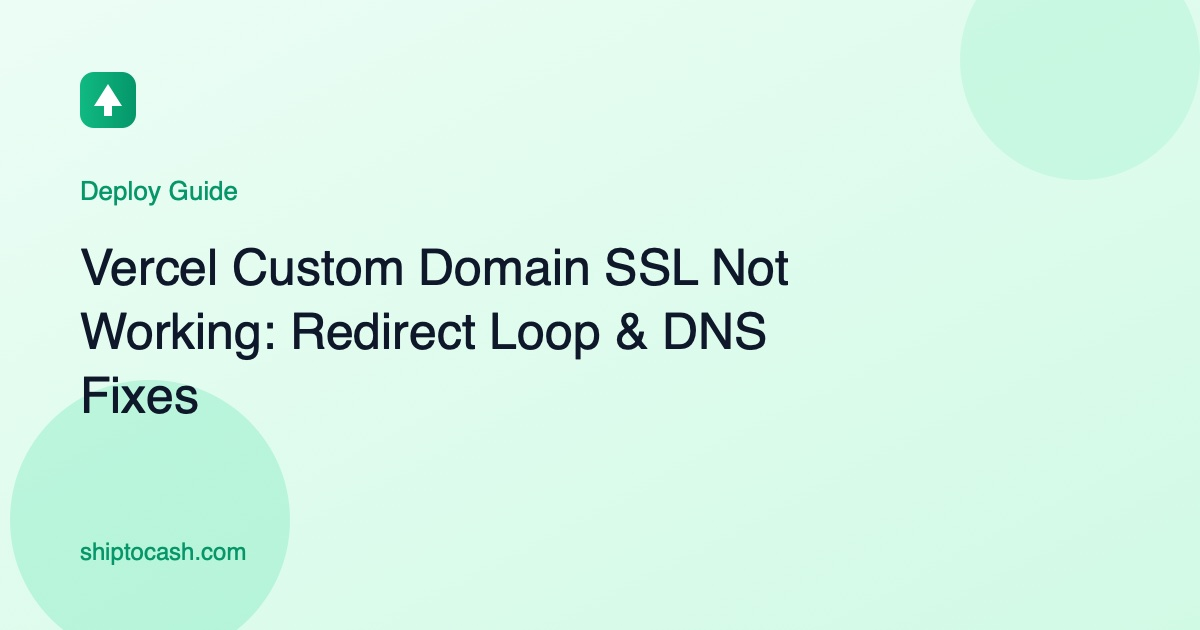
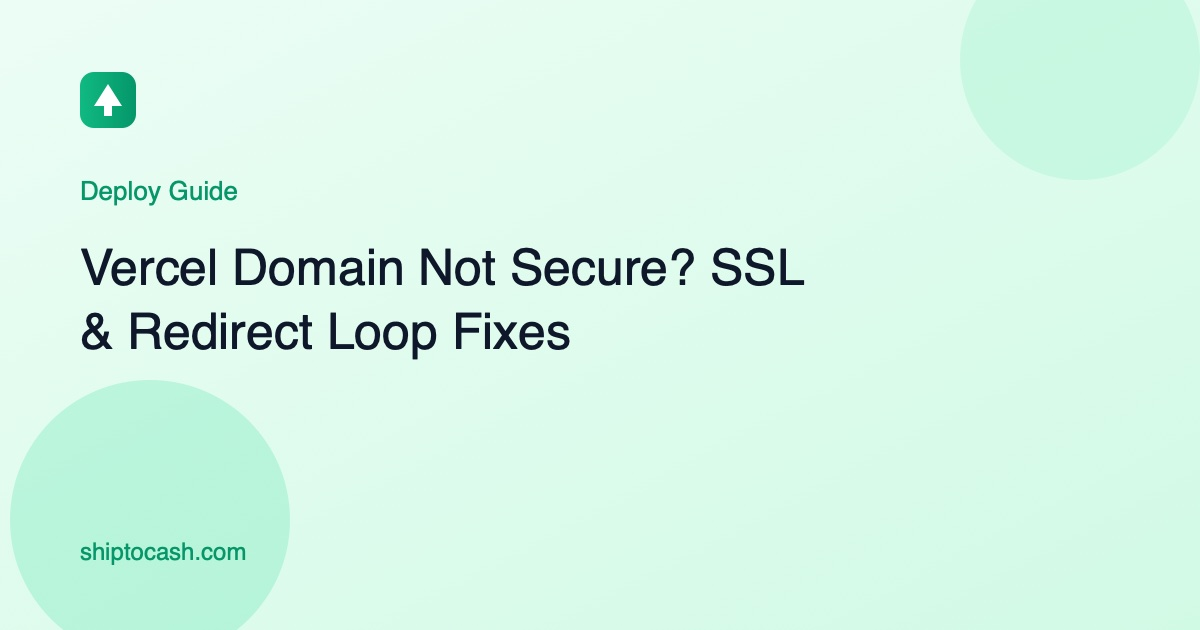
seo: retarget two low-CTR Vercel pages at error-log queries, fix contradictory CNAME guidance
- vercel-build-failed: title/desc matched to pasted error strings, 5-row lookup
  table expanded to 10 exact log lines, 1685 -> 1798 words
- vercel-custom-domain-ssl-not-working: title 63 -> 51 chars, description
  236 -> 155 chars, adds cert-error-code section, 1344 -> 1596 words
- vercel-custom-domain-setup: title 62 -> 58 chars, cross-cluster outbound
  link added; stays online as topic landing page, no further ranking push
- fix factual conflict: project-specific CNAME (xxxx.vercel-dns-017.com)
  is the verified value; cname.vercel-dns.com demoted to legacy in both pages
- regenerate OG images for all three pages
- add docs/traffic-breakout-plan.md (GSC 3-month diagnosis)

Changed region(s): [[0.0617, 0.4825, 0.6475, 0.6635], [0.185, 0.3921, 0.6783, 0.4524]]

diff --git a/docs/traffic-breakout-plan.md b/docs/traffic-breakout-plan.md
@@ -1,0 +1,194 @@
+# 破局方案：Google 曝光起不来（2026-10-21 诊断）
+
+> 现象：唯一流量来源是 Google，曝光每天个位数，进站 0–2 人/天。
+> **先纠正一个误判：你不是"没有排名"。你已经有页面排到第 1 页了。**
+
+---
+
+## 0. 数据说话：你其实已经排上去了
+
+2026-10-21 GSC 截图（近 28 天）：
+
+| 页面 | 展示 | 点击 | CTR | 平均排名 |
+|---|---|---|---|---|
+| `payments/getting-paid-without-stripe-kofi-paypal` | 332 | 4 | **1.2%** | **8.9** |
+| `payments/stripe-not-available-in-my-country` | 99 | 3 | 3.0% | 20.7 |
+
+**平均排名 8.9 = 第 1 页第 9 位。** 这不是"被 Google 埋没"，是"排上去了但没人点"。
+
+而且注意这两篇的分类：**都是 payments**。deploy 簇有 16 篇，一篇都没进点击榜。
+
+这一条信息比什么都值钱 —— 它说明 **Google 已经认了你在「收款/支付」这个主题上的相关性，还没认 deploy**。这直接决定了后面该往哪儿投。
+
+---
+
+## 1. 三个真问题（按影响大小排序）
+
+### 1.1 词的量级太小 —— 排第 1 也没几个人（最大问题）
+
+832 次展示 ÷ 28 天 ≈ **每天 30 次曝光，全站**。
+
+反过来推：`getting-paid-without-stripe` 28 天 332 次展示，说明它的目标词月搜索量大概在**几百量级**。这种词就算你排到第 1 位，一个月也最多 30–50 次点击。
+
+> 你现在陷入了「极长尾陷阱」：竞争确实低，但池子太小。为了躲开大站，把词一路退到没人搜的地方，等于赢了一场没有奖品的比赛。
+
+**必须往上走一层**：从「月搜 200–500、KD 极低」→「月搜 1000–3000、前 5 有 DR 20–40 的站」。后者才是既有量又能赢的区间。
+
+### 1.2 CTR 1.2% —— 排在第 9 位，正常该有 6–8%
+
+这是**最容易修、见效最快**的一项，而且不需要写任何新内容。
+
+同一条数学：
+
+| 情形 | 展示 | CTR | 点击 |
+|---|---|---|---|
+| 现在（排名 8.9） | 332 | 1.2% | **4** |
+| 标题摘要修好（排名不变） | 332 | 6% | **20** |
+| 内容加深 + 内链推到 4–5 位 | 600+ | 8% | **48** |
+
+**不动排名，只改标题，这一篇就能从 4 个点击变成 20 个 —— 相当于你现在的全部流量翻 5 倍。**
+
+为什么 CTR 只有 1.2%？两个原因：
+1. **标题不像"人会点"的东西**。`Getting Paid Without Stripe: My Ko-fi + PayPal Setup` —— 这是"记录我做了什么"，不是"解决你的问题"。搜这个词的人想知道"我该怎么办"，标题要冲着他喊。
+2. **展示分散在大量长尾词上**。平均排名 8.9 是被少数几个好位次拉高的，大部分展示可能来自排 30+ 的词（那些词几乎不会被点）。所以真实情况是：**你在少数词上排第 8，在多数词上排第 30**。
+
+### 1.3 大部分页面 0 排名 + 全站 0 外链
+
+deploy 簇 16 篇没进点击榜，原因在 §3。
+
+---
+
+## 2. 双轨策略：先摘低垂果实，再换战场
+
+两条轨并行，但**优先级完全不同**：
+
+### Track A（本周开始，2–4 周见效）—— 把已经排上来的页面推到前 5
+
+这是全站 ROI 最高的动作，因为你已经有排名基础，不用等 Google 重新建立信任。
+
+**具体做法（按这 8 篇逐个过）：**
+
+1. **导出 GSC 里有点击的全部页面**（估计 8 篇左右），按展示排序。
+2. 对每篇做三件事：
+   - **改标题**：从"我做了什么"改成"你该怎么办 + 具体结果"。
+     - ❌ `Getting Paid Without Stripe: My Ko-fi + PayPal Setup`
+     - ✅ `No Stripe? Get Paid in 48 Hours With Ko-fi + PayPal`
+   - **改 description**：必须包含一个具体数字或结果（费率、到账时间、门槛）。这是 SERP 里唯一能制造"点我"冲动的元素。
+   - **内容加深 30%**：补上真正只有你能写的东西 —— 实际费率和到账天数截图、被拒的经过、审核等了几天。然后更新 `dateModified`。
+3. **给这 8 篇加 3–4 条站内入链**（从相关老文链过来），把权重集中过去。
+
+> 判断标准：4 周后这 8 篇的平均排名有没有从 9–20 进到 5 以内。进了，说明这条路成立，可以继续复制。
+
+### Track B（本周开始，60–90 天见效）—— 换战场到 payments / Lemon Squeezy
+
+**deploy 簇封盘，不再新增。** 理由是数据已经给了答案：payments 在排名，deploy 不在。继续往 deploy 投入等于每次从零开始建立信任；而往 payments 投入，Google 已有的相关性判断会直接传递过去。
+
+**为什么是 Lemon Squeezy**（2026-10-21 实测）：
+
+| 关键词 | SERP 前 5 实际构成 | 能赢吗 |
+|---|---|---|
+| `vercel build failed` | Stack Overflow（DR 92，**同一帖 20+ 条答案覆盖全部原因**）+ Vercel 官方文档 ×2 + pSEO 报错库站 | ❌ |
+| `cors error vercel` | Vercel 官方 KB ×3（同内容三镜像）+ 社区帖 | ❌ |
+| `lemon squeezy webhook not firing` | devtonicstudios（DR ~15）、portpreview（DR ~10）、refgrow docs、**SO 只有 1 条答案** | ✅ |
+
+而且 LS 读者在**实施阶段**（正在接支付），affiliate 转化率天然高于"来查报错、修完就走"的人。
+
+**待写 8 篇（全部避开税务/法务，遵守现有 E-E-A-T 否决项）**
+
+| # | 目标关键词 | 为什么能赢 |
+|---|---|---|
+| 1 | `lemon squeezy license key activation limit exceeded` | 官方只写字段不解释业务逻辑 |
+| 2 | `lemon squeezy webhook retry idempotency` | 仅 portpreview 一篇擦边，可碾压 |
+| 3 | `lemon squeezy store approval rejected` | Reddit 大量真实抱怨，官方无解释页 |
+| 4 | `lemon squeezy pause subscription api` | API 文档有端点无场景 |
+| 5 | `lemon squeezy discount code checkout link` | 纯操作教程，官方文档碎片化 |
+| 6 | `lemon squeezy api rate limit 429` | 报错型但受众是开发者，答案稀缺 |
+| 7 | `migrate from gumroad to lemon squeezy` | 写迁移步骤，不是评测对比 |
+| 8 | `lemon squeezy license validation supabase` | 栈组合词，几乎无竞争 |
+
+---
+
+## 3. 为什么 deploy 那 16 篇打不动 —— 判据需要改
+
+`content-strategy-no-comparison.md` §2 的核心判据是：
+
+> ≥2 条 UGC（Reddit / Stack Overflow / GitHub Discussions）→ **可打**
+
+这条判据的推理链断了。**UGC 出现在前 5，说明的是"意图已经在 SERP 内被满足"，不是机会，是警告。**
+
+- 用户搜 `vercel build failed` 的真实需求是「30 秒内给我一个能试的修复」。那条 SO 帖子已经把 npm / Node 版本 / 缓存 / peer-deps / monorepo / 环境变量全部原因列完了 —— Google 判定意图已满足，没有任何理由推第 12 个答案上去。
+- 更致命：**点击不需要**。用户在摘要里扫一眼就有答案，压根不点。
+
+> 你 9 月 4 日那次实测（`404 on refresh vercel`）其实已经看到真相：排上来的是 **jsschools.com 这类小站**。真正说明"可打"的信号是「**有低 DR 站排进前 5**」，当时把功劳记在了 UGC 头上。
+
+### 修正后的判据（替换原 §2 表格）
+
+| 判据 | 加分（可打） | 减分（放弃） |
+|---|---|---|
+| 前 5 是否已有 **DR < 40** 的站 | ✅ +3 —— 最强的可赢信号 | ❌ −3 全是 DR 60+ |
+| 是否存在**单一答案页通吃**全部原因 | ✅ 答案分散在多个来源 | ❌ 一条 SO 帖/一页官方文档全覆盖 |
+| 查询是否需要**多步骤执行** | ✅ +2 | ❌ −2 一句话答完 |
+| 是否有**商业/实施意图** | ✅ +2 读者正在花钱或配置 | ❌ −2 纯排错、修完就走 |
+| **词量级是否 ≥ 1000/月** | ✅ +2 | ❌ −2 月搜几百，排第 1 也没量 |
+
+**≥5 分才写，≤2 分换词。** 用这个标准回测，deploy 簇的报错文大多在 0 分上下 —— 它们从出生就不该被写。
+
+---
+
+## 4. 拿链接 —— 你从来没做过的那件事
+
+11 周 0 外链建设 = 排名天花板极低。目标：60 天做到 15–20 个引荐域名。
+
+按性价比排：
+
+1. **dev.to 同步 3 篇**（最高性价比）。选 LS webhook / checkout / license 三篇，改写成 dev.to 风格，**canonical 指回 shiptocash.com**。dev.to DA 90，带爬虫 + 带品牌搜索 + 带真实点击。今天就能做。
+2. **Reddit 真实回答 5 条**。r/webdev、r/SideProject、r/SaaS 搜 `lemon squeezy`，回答里把**完整解法写出来**，最后附「详细版在这里」。硬贴链接会被删号。
+3. **GitHub 侧链**：给 `awesome-astro` / `awesome-vercel` 提 PR；把自己的 guides 挂到个人 repo README（GitHub 是 DR 100 dofollow 域）。
+4. **做 1 个免费计算器**：Lemon Squeezy / Paddle / Stripe 手续费对比计算器（纯工具，不是评测文，不违反禁对比文规则）。工具页是最容易自然吸链接的资产。
+5. **同层级互引**：找 5 个 DR 10–30 的同类小站，读完写一篇更深的，邮件告知 + 请求互引。
+
+> ⚠ 不买链接、不进链接农场、不做 PBN。新站被识别一次就废。
+
+---
+
+## 5. 30 / 60 / 90 天动作表
+
+| 阶段 | 动作 | 量化目标 |
+|---|---|---|
+| **第 1 周** | 导出有点击的 8 篇 → 改标题 + 改 description；dev.to 发第 1 篇；定 3 个 pillar 骨架 | CTR 先动 |
+| **第 2–4 周** | 8 篇内容各加深 30% + 更新 dateModified + 补 3–4 条入链；写 LS #1–#3 | 8 篇平均排名 → 5 以内；日曝光 30 → 100 |
+| **第 5–8 周** | 写 LS #4–#6；上线手续费计算器；GitHub PR ×3；Reddit 回答 5 条 | 引荐域名 12+ |
+| **第 9–12 周** | 写 LS #7–#8；按新判据回测全部旧文，砍掉 0 分页或合并；评估 deploy 是否解封 | 非品牌点击 > 10/天 |
+
+**结构同步做**：建 3 个 pillar 页（payments / deploy / monetize 各一），子页首段链向 pillar，pillar 用表格串起全部子页。平铺结构会把权重摊薄，谁都进不了前 5。
+
+---
+
+## 6. 判定信号与止损线
+
+| 时间点 | 健康信号 | 不达标说明什么 | 怎么改 |
+|---|---|---|---|
+| 14 天 | 改标题的那 8 篇 CTR 从 1.2% → 4%+ | 标题仍不对 | 看 GSC 实际展示的查询，标题里必须出现那个词 |
+| 30 天 | 日曝光 30 → 100+ | 词量级仍太小 | 往上换一层词，不要往下退 |
+| 60 天 | 出现 ≥5 个 position < 6 的词 | 内链/加深没生效 | 检查 pillar 是否被收录并被链 |
+| 90 天 | 非品牌点击 > 10/天 | 链接没做够（最常见） | 加码 §4，不是加码写文 |
+| 180 天 | 非品牌点击 100+/天 | 词族仍选错 | 整簇放弃，换赛道 |
+
+**止损铁律：90 天后还是 0–2 人/天，不要再写第 31 篇。** 问题一定在链接或词族。
+
+---
+
+## 7. 诚实的时间预期
+
+| 现在 | 1 个月 | 3 个月 | 6 个月 |
+|---|---|---|---|
+| 0–2 /天 | 3–8 /天（靠 CTR 修复） | 20–50 /天 | 100–200 /天 |
+
+**第一个月的增长几乎全靠 §1.2 的 CTR 修复**（不写新文也能拿到），这是唯一能在 30 天内看到曲线的动作。
+
+---
+
+## 8. 顺手要修的两个小事
+
+1. **GA4 没配**（`src/config/site.ts` 里 `ga4Id` 为空）。你现在只能看到 Google 给了多少曝光，看不到进来的人停了几秒、去了哪页。装 GA4 或用 Cloudflare Web Analytics（免费、无 cookie）。
+2. **`dateModified` = `datePublished`**（30 篇全部）。挑真正加深过内容的 5 篇更新 `dateModified` 是正确信号；只改日期不改内容是作弊，别做。

diff --git a/src/content/blog/vercel-build-failed.md b/src/content/blog/vercel-build-failed.md
@@ -1,7 +1,8 @@
 ---
-title: "Vercel Build Failed: 5 Real Causes and Exact Fixes"
-description: "Build works locally but Vercel says 'Build failed'? The 5 causes behind almost every red deployment — with the exact error text and fixes, from real build logs."
+title: "Vercel Build Failed? 5 Causes Matched to Your Error Log"
+description: "Log stuck on 'exited with 1'? Match the first red line to one of 5 causes — each with the exact fix, pulled from my own failed build logs."
 pubDate: 2026-08-19
+updatedDate: 2026-10-21
 category: deploy
 difficulty: beginner
 author: "Peng Zhou"
@@ -21,15 +22,9 @@ faq:
 
 The first time I saw a red "Error" status on a Vercel deployment, I stared at the log for twenty minutes. The app built fine on my laptop. It built fine five minutes earlier. What changed?
 
-That was my first deploy, and the lesson I learned — the one this guide is built on — is that Vercel build failures are almost never mysterious. Your laptop quietly forgives things that Vercel's Linux build container does not. Once you know the five things it's strict about, you can read any failed build log and usually know the fix within a minute.
+That was my first deploy. The lesson: Vercel build failures are rarely mysterious — your laptop quietly forgives things Vercel's Linux build container doesn't. Once you know the five things it's strict about, you can usually name the fix within a minute.
 
-One thing before we start: if your error literally says `Module not found`, that's usually a file-casing problem, and it has its own guide — [why Module not found happens on Vercel but not locally](/deploy/vercel-module-not-found-works-locally/). For everything else, read on.
-
-One more distinction worth making up front: if your homepage and other pages load fine but a **deep link 404s the instant you refresh it**, that is *not* a build failure — it's a client-side routing problem. Here's [how to fix 404s on refresh for Vercel, Netlify, and Cloudflare Pages](/deploy/client-side-routing-404-vercel-netlify-cloudflare/).
-
-The most basic version of "not a build failure": you push to GitHub and Vercel shows **no new deployment at all** — not a failed one, nothing. The trigger never fired, so there is no log to read. That's [why a git push stops triggering a Vercel deploy](/deploy/vercel-git-push-not-triggering-deploy/), and it's usually a commit author or Git connection problem rather than anything in your code.
-
-And if you're not on Vercel at all: Netlify reports build failures with its own string, `build script returned non-zero exit code: 2`, and the causes behind it are different enough that I wrote [a separate guide for the Netlify exit code 2 error](/deploy/netlify-build-failed-exit-code-2/).
+Three failures look like build failures but aren't, and each has its own fix. `Module not found` is usually file casing — [why Vercel says Module not found when your laptop doesn't](/deploy/vercel-module-not-found-works-locally/). Pages that render fine but [404 the moment you refresh a deep link](/deploy/client-side-routing-404-vercel-netlify-cloudflare/) are a routing problem. And when Vercel shows no new deployment at all, the trigger never fired — [Vercel never even started a deployment](/deploy/vercel-git-push-not-triggering-deploy/), so there's no log to read. Off Vercel entirely? Netlify's `build script returned non-zero exit code: 2` is [its own flavor of this error](/deploy/netlify-build-failed-exit-code-2/).
 
 ## First: read the log the right way
 
@@ -41,15 +36,22 @@ The mistake everyone makes (me included, for those twenty minutes) is reading th
 
 Now, the five causes.
 
-Here's the quick map — match your log's first red line to the cause, then scroll to it:
+Here's the lookup table I wish I'd had. Find your exact string, read the cause, then jump to the section — most of these resolve in a minute once you know which of the five you're in.
 
-| Your log shows… | The cause | Which one |
+| Exact string in your log | What it actually means | Jump to |
 |---|---|---|
-| `ERESOLVE` / `command not found` | Dependencies differ from local | Cause 1 |
-| Node syntax error / cryptic crash | Node version mismatch | Cause 2 |
-| `Type error:` / `Cannot find module` | TypeScript error surfaces at build | Cause 3 |
-| `No Output Directory` / 404 after build | Wrong build command or output | Cause 4 |
-| `heap out of memory` / build times out | Out of time or memory | Cause 5 |
+| `Command "npm run build" exited with 1` | The wrapper, not the error. The real one is 10–20 lines above it | Cause 1–3, scroll up |
+| `npm ERR! code ERESOLVE` | Two packages want incompatible peer versions | Cause 1 |
+| `Error: Command "npm install" exited with 1` | Install died before your build ever started | Cause 1 |
+| `ELIFECYCLE Command failed with exit code 1` | Your own build script threw — read the first error above it | Cause 3 |
+| `ERR_PNPM_OUTDATED_LOCKFILE` | `package.json` and `pnpm-lock.yaml` disagree | Cause 1 |
+| `SyntaxError: Unexpected token` inside a dependency | Build image's Node is older than that package expects | Cause 2 |
+| `Type error:` / `error TS2307` | Type check ran at build; dev mode skips it | Cause 3 |
+| `No Output Directory named "dist" found` | Build succeeded, output landed somewhere else | Cause 4 |
+| `Module not found: Can't resolve` | File casing, or a dependency missing from `package.json` | Cause 1 |
+| `heap out of memory` / `Build exceeded maximum allowed runtime` | Hit the memory wall or the 45-minute cap | Cause 5 |
+
+Two of those strings actively lie to you. `exited with 1` and `ELIFECYCLE` are both generic wrappers that npm prints after *something* failed — neither tells you what failed, and both are the last line of the log rather than the first. If the section under them is only cleanup noise, scroll up.
 
 ## 1. Dependencies install fine locally but break on Vercel
 
@@ -128,7 +130,8 @@ Type error: Cannot find module '@/components/Logo' or its corresponding type dec
 **What the log says:**
 
 ```
-Error: No Output Directory named "dist" found using the Vercel Speed API.
+Error: No Output Directory named "dist" found after the Build completed.
+Error: No Output Directory named "public" found after the Build completed.
 ```
 
 Or your build "succeeds" in the log but the deployment still 404s.
@@ -166,7 +169,7 @@ NODE_OPTIONS=--max_old_space_size=4096 next build
 
 For timeouts, look at what the log says the build is *doing* when it stalls. Ninety percent of the time it's not one slow step — it's a loop generating an unreasonable number of pages, or a build script that's quietly waiting on a network request that never completes. If you're on Next.js with a large static site, incremental static regeneration lets you pre-render a subset at build time and generate the rest on demand.
 
-One rate-limit gotcha while you're iterating on builds: the Hobby plan allows 100 deployments per day and 100 per hour. If you're pipelining fixes with an AI tool, you can hit that wall without noticing — the symptom is builds that won't start, which looks a lot like a build failure but isn't one.
+One rate-limit gotcha while you're iterating on builds: the Hobby plan caps you at 100 deployments per day. If you're pipelining fixes with an AI tool, you can hit that wall without noticing — the symptom is builds that won't start, which looks like a build failure but isn't.
 
 ## A 60-second pre-flight check that prevents most of this
 
@@ -182,3 +185,5 @@ If both pass locally, your odds of a green first deployment go way up. It's the 
 ## Next steps
 
 Fix the build, and you're back to the fun part: the thing actually being online. If red deployments are becoming a pattern and your project is mostly static, it's worth knowing that [Cloudflare Pages and Vercel trade blows differently](/deploy/vercel-vs-netlify-vs-cloudflare-pages/) — I run projects on both, and build behavior is one of the places they genuinely differ. And once the deploy is green, the next milestone is a custom domain — here's [how to point a domain at Vercel](/deploy/vercel-custom-domain-setup/) when you're ready, or [whether transferring the domain is even worth it](/deploy/transfer-domain-to-vercel/).
+
+And when the deploy has stayed green for a week, the next wall stops being technical. Usually the reason you wanted this thing deployed is to charge for it, and that turns out to be [taking money without a Stripe account](/payments/getting-paid-without-stripe-kofi-paypal/) — fees, payouts, and the parts nobody explains up front.

diff --git a/src/content/blog/vercel-custom-domain-ssl-not-working.md b/src/content/blog/vercel-custom-domain-ssl-not-working.md
@@ -1,8 +1,8 @@
 ---
-title: "Vercel Custom Domain SSL Not Working: Redirect Loop & DNS Fixes"
-description: "Your Vercel domain shows 'not secure', throws a redirect loop, or stays pending? Here are the exact fixes for SSL cert errors, too-many-redirects, and DNS that won't propagate — including the Cloudflare setting that causes most of them."
+title: "Vercel Domain Not Secure? SSL & Redirect Loop Fixes"
+description: "Vercel domain 'not secure', looping on redirects, or stuck pending? Four fixes in the order I check them — the Cloudflare SSL mode is guilty 9 times in 10."
 pubDate: 2026-08-28
-updatedDate: 2026-08-28
+updatedDate: 2026-10-21
 category: deploy
 difficulty: intermediate
 author: "Peng Zhou"
@@ -50,14 +50,25 @@ Vercel requests the SSL certificate *from the certificate authority* only after 
 
 Vercel shows the exact records it wants at the bottom of that Domains panel. As of 2026 they are:
 
-- **Apex (yourdomain.com):** an `A` record pointing to `76.76.21.21`
-- **www:** a `CNAME` record pointing to `cname.vercel-dns.com`
+- **Apex (yourdomain.com):** an `A` record — `76.76.21.21` on most projects
+- **www:** a `CNAME` record whose value is **unique to your project**, something like `d1d4fc829fe7bc7c.vercel-dns-017.com`
 
-I once typed `your-app.vercel.app` into the CNAME instead of `cname.vercel-dns.com` because it "looked more correct." It isn't — use the `cname.vercel-dns.com` value Vercel prints, exactly.
+Two things worth internalising here. First, Vercel has been expanding its address pool, so newer projects sometimes get a different apex IP — treat both values as "whatever my dashboard prints", not constants. Second, older tutorials tell you to use `cname.vercel-dns.com` for the CNAME. That's the legacy shared target and it still resolves, but Vercel now verifies against the per-project value it shows you.
+
+I once typed `your-app.vercel.app` into the CNAME instead of the value Vercel printed, because it "looked more correct." It isn't — copy the dashboard's value character for character. If A records and CNAMEs are still opaque to you, [the DNS records explained from scratch](/deploy/buy-domain-set-up-dns/) covers what each one is actually doing before you paste anything else.
 
 ### Step 3: Wait for propagation (or verify it)
 
 DNS changes can take minutes to a few hours depending on the registrar's TTL. Check whether the world can see your records at [whatsmydns.net](https://whatsmydns.net) — enter your domain, pick `A` or `CNAME`, and watch the map turn green. Only when records show Vercel's values globally will the cert issue.
+
+### If the browser shows a different certificate error code
+
+`NET::ERR_CERT_AUTHORITY_INVALID` is the usual one when no certificate exists yet. Two others look like the same problem but aren't:
+
+- **`ERR_CERT_COMMON_NAME_INVALID`** — a certificate *was* issued, but for a different hostname. Almost always the `www` versus apex split: you added `www` but visit the apex, or the reverse. Both hostnames need to be in **Settings → Domains**, not just one.
+- **`ERR_SSL_PROTOCOL_ERROR` or "This site can't provide a secure connection"** — the TLS handshake itself failed, which means something is sitting in front of Vercel. Usually Cloudflare's orange cloud on a record that doesn't point at Vercel, or a corporate network doing TLS inspection. Test on a phone over cellular data before you touch any DNS.
+
+If **Settings → Domains** says *"Domain does not resolve to the Vercel deployment"*, that's Vercel's own wording for "the A or CNAME records still point elsewhere." Go back to Step 2 — don't remove and re-add the domain, it only resets the clock.
 
 <a id="redirect-loop"></a>
 ## Redirect loop: ERR_TOO_MANY_REDIRECTS
@@ -97,7 +108,7 @@ The domain never leaves "Pending." This is purely a DNS problem — Vercel can't
 
 ### Step 1: Verify the CNAME value
 
-If you added a `www` CNAME, the value must be exactly `cname.vercel-dns.com` — **not** your project's `.vercel.app` URL. This is the single most common typo.
+If you added a `www` CNAME, the value must match the one in your project's **Settings → Domains** card, character for character — **not** your project's `.vercel.app` URL, and not the `cname.vercel-dns.com` value from an older tutorial. This is the single most common typo.
 
 ### Step 2: Verify the apex A record
 
@@ -131,4 +142,6 @@ On Pro and above you can upload a custom certificate, but for a personal or indi
 
 ## Next steps
 
-Most of these errors trace back to one root cause: DNS not quite pointing at Vercel, or Cloudflare sitting in the middle with the wrong SSL mode. Walk the [custom domain setup guide](/deploy/vercel-custom-domain-setup/) end to end if you set the records up from memory — it has the exact Namecheap and Cloudflare values side by side. If you bought the domain somewhere else and are wondering whether to move it, you don't have to: [pointing DNS is enough](/deploy/transfer-domain-to-vercel/), and transferring can actually reset your records and bring all this back. And no, none of this means you need to [buy an SSL certificate](/deploy/do-i-need-to-buy-ssl-certificate/) — Vercel's is free and automatic.
+Most of these errors trace back to one root cause: DNS not quite pointing at Vercel, or Cloudflare sitting in the middle with the wrong SSL mode. If you set the records up from memory, walk it end to end with [the exact Namecheap and Cloudflare values side by side](/deploy/vercel-custom-domain-setup/). If you bought the domain somewhere else and are wondering whether to move it, you don't have to: [pointing DNS is enough](/deploy/transfer-domain-to-vercel/), and transferring can actually reset your records and bring all this back. And no, none of this means you need to [buy an SSL certificate](/deploy/do-i-need-to-buy-ssl-certificate/) — Vercel's is free and automatic.
+
+One consequence worth knowing if you plan to make money from the site: a padlock that still throws a warning gets judged as a navigation problem long after you've stopped thinking about it. That's one of the reasons [AdSense reads an insecure domain as a broken site](/monetize/adsense-low-value-content-rejected/) and rejects it during review — fix the cert before you submit, not after.

diff --git a/src/content/blog/vercel-custom-domain-setup.md b/src/content/blog/vercel-custom-domain-setup.md
@@ -1,8 +1,8 @@
 ---
-title: "How to Set Up a Vercel Custom Domain (Namecheap & Cloudflare)"
+title: "Vercel Custom Domain Setup: Namecheap & Cloudflare Records"
 description: "Vercel custom domain setup for Namecheap & Cloudflare: the exact DNS records (A + CNAME), auto SSL, www vs apex, and the mistakes that break verification."
 pubDate: 2026-08-06
-updatedDate: 2026-08-10
+updatedDate: 2026-10-21
 category: deploy
 difficulty: beginner
 author: "Peng Zhou"
@@ -56,6 +56,8 @@ Vercel now shows you the DNS records it expects:
 - For `www`: a **CNAME record** — and here's what trips people up — the value is **unique to your project**, something like `d1d4fc829fe7bc7c.vercel-dns-017.com`
 
 Older tutorials tell you to use `cname.vercel-dns.com`. That's outdated. Copy the exact CNAME value your dashboard shows, character for character.
+
+Newer projects sometimes get a different apex IP as well — Vercel has been expanding its address pool — so treat both values as "whatever my dashboard prints", not as constants you can memorise.
 
 Leave this tab open. You'll come back to check verification.
 
@@ -127,3 +129,5 @@ In **Settings → Domains**, Vercel lets you set a redirect from one to the othe
 ## Next steps
 
 Domain connected, SSL green padlock, canonical URL picked — your app now looks like a real product. But if the domain connects and instead you get a "not secure" warning or a redirect loop, my [Vercel SSL troubleshooting guide](/deploy/vercel-custom-domain-ssl-not-working/) covers the exact Cloudflare and DNS fixes. If you're wondering why that padlock matters beyond appearances (and whether you'd ever need to buy a certificate), I answered that in [do you need to buy an SSL certificate?](/deploy/do-i-need-to-buy-ssl-certificate/) — short version: no. And if this DNS stuff felt like magic incantations, my [beginner's guide to buying a domain and setting up DNS](/deploy/buy-domain-set-up-dns/) makes the records actually make sense.
+
+The question after this one is rarely technical. You just spent $10 on a name and ten minutes on DNS, so the obvious next thought is how the site starts paying that back — [the ad layer that needs a verified domain first](/monetize/google-adsense-on-astro/) is where most people go, and the approval review is the part that actually stops them.
